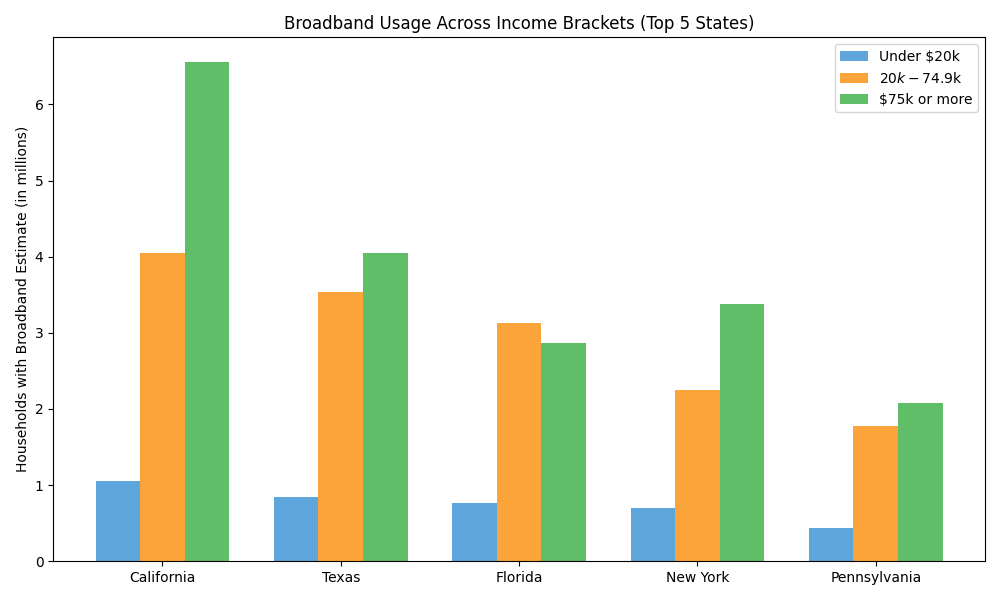
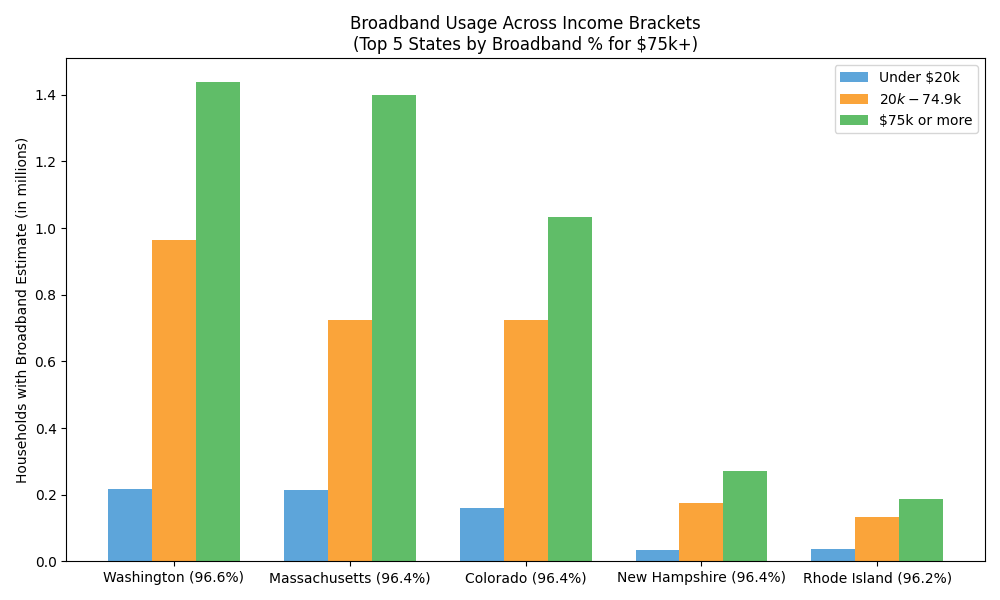
feat: Made first visual to be top 5 states for broadband % by 75k+ income

diff --git a/visuals_v2.py b/visuals_v2.py
@@ -1,0 +1,122 @@
+import pandas as pd
+import numpy as np
+import matplotlib.pyplot as plt
+
+# Read the dataset (Ensure your file is named exactly this in your folder)
+df = pd.read_excel('P2_Types of computers and internet subscriptions.xlsx')
+
+# Identify the state columns
+states = [col for col in df.columns if not col.startswith('Unnamed') and col not in ['Individual State', 'Puerto Rico', 'Totals and Percentages ']]
+
+data = []
+for state in states:
+    state_idx = df.columns.get_loc(state)
+    
+    # Helper function to grab the PRE-CALCULATED PERCENTAGE directly from the dataset
+    # In the Census dataset, the "Percent Estimate" column is exactly 2 columns to the right of the state name
+    def get_pct(row_idx):
+        val = df.iloc[row_idx, state_idx + 2]
+        if pd.isna(val): return 0
+        if isinstance(val, str):
+            val = val.replace('%', '').replace(',', '').replace('+', '').replace('-', '')
+            if val.strip() in ['', '(X)', 'N']: return 0
+            return float(val)
+        return float(val)
+
+    # Extract specific percentages directly from the dataset rows
+    desktop_laptop_pct = get_pct(5)
+    smartphone_pct = get_pct(7)
+    broadband_pct = get_pct(20)
+    satellite_pct = get_pct(21)
+    
+    # Broadband user percentages within each income bracket
+    income_under_20k_bb_pct = get_pct(26)
+    income_20k_to_75k_bb_pct = get_pct(30)
+    income_75k_bb_pct = get_pct(34)
+    
+    data.append({
+        'State': state,
+        'Desktop_Laptop_Pct': desktop_laptop_pct,
+        'Smartphone_Pct': smartphone_pct,
+        'Broadband_Pct': broadband_pct,
+        'Satellite_Pct': satellite_pct,
+        'Urbanization_Gap_Pct': broadband_pct - satellite_pct, # Difference in percentage points
+        'Income_Under20k_BB_Pct': income_under_20k_bb_pct,
+        'Income_20k-75k_BB_Pct': income_20k_to_75k_bb_pct,
+        'Income_75k+_BB_Pct': income_75k_bb_pct,
+    })
+
+# Convert to DataFrame
+df_metrics = pd.DataFrame(data)
+
+# Identify all columns except 'State' and convert only those to numeric
+numeric_cols = [col for col in df_metrics.columns if col != 'State']
+df_metrics[numeric_cols] = df_metrics[numeric_cols].apply(pd.to_numeric, errors='coerce')
+
+# Identify Top 5 States based on highest percentage gap between broadband and satellite
+top_5_states = df_metrics.sort_values('Urbanization_Gap_Pct', ascending=False).head(5)
+states_labels = top_5_states['State'].tolist()
+
+
+# --- VISUAL 1 ---
+# Set up the positions for the bars
+x = np.arange(len(states_labels))
+width = 0.25
+
+fig, ax = plt.subplots(figsize=(10, 6))
+
+# Plot each income bracket 
+ax.bar(x - width, top_5_states['Income_Under20k_BB_Pct'], width, label='Under $20k', color='#5da5da')
+ax.bar(x, top_5_states['Income_20k-75k_BB_Pct'], width, label='$20k - $74.9k', color='#faa43a')
+ax.bar(x + width, top_5_states['Income_75k+_BB_Pct'], width, label='$75k or more', color='#60bd68')
+
+# Formatting the chart
+ax.set_ylabel('Broadband Adoption Rate within Bracket (%)')
+ax.set_title('Broadband Adoption Rate Across Income Brackets (Top 5 States)')
+ax.set_xticks(x)
+ax.set_xticklabels(states_labels)
+ax.legend(loc='lower right')
+
+plt.tight_layout()
+plt.savefig('visual1_income_broadband.png')
+plt.show()
+
+
+# --- VISUAL 2 ---
+width = 0.35
+fig, ax = plt.subplots(figsize=(10, 6))
+
+# Plot Smartphone vs Desktop/Laptop
+ax.bar(x - width/2, top_5_states['Smartphone_Pct'], width, label='Smartphone', color='#4d4d4d')
+ax.bar(x + width/2, top_5_states['Desktop_Laptop_Pct'], width, label='Desktop/Laptop', color='#5da5da')
+
+# Formatting the chart
+ax.set_ylabel('Percentage of Total State Households (%)')
+ax.set_title('Device Ownership Comparison (Top 5 States)')
+ax.set_xticks(x)
+ax.set_xticklabels(states_labels)
+ax.legend(loc='lower right') 
+
+plt.tight_layout()
+plt.savefig('visual2_device_ownership.png')
+plt.show()
+
+
+# --- VISUAL 3 ---
+width = 0.35
+fig, ax = plt.subplots(figsize=(12, 6))
+
+# Plot Broadband vs Satellite
+ax.bar(x - width/2, top_5_states['Broadband_Pct'], width, label='Broadband', color='steelblue')
+ax.bar(x + width/2, top_5_states['Satellite_Pct'], width, label='Satellite', color='darkorange')
+
+# Formatting the chart
+ax.set_ylabel('Percentage of Total State Households (%)')
+ax.set_title('Top 5 States with Largest Gap between Broadband and Satellite')
+ax.set_xticks(x)
+ax.set_xticklabels(states_labels, rotation=45, ha='right')
+ax.legend()
+
+plt.tight_layout()
+plt.savefig('visual3_urbanization_gap_clustered.png')
+plt.show()

diff --git a/visual1.py b/visual1.py
@@ -1,0 +1,89 @@
+import pandas as pd
+import numpy as np
+import matplotlib.pyplot as plt
+
+# Read the excel dataset
+df = pd.read_excel('P2_Types of computers and internet subscriptions.xlsx')
+
+# Identify the state columns (skip 'Individual State', 'Unnamed' columns, and 'Puerto Rico')
+states = [col for col in df.columns if not col.startswith('Unnamed') and col not in ['Individual State', 'Puerto Rico']]
+
+data = []
+for state in states:
+    state_idx = df.columns.get_loc(state)
+    
+    # Helper function to clean and convert string numbers to floats
+    # ADDED: col_offset to retrieve percentage estimates next to the totals
+    def get_val(row_idx, col_offset=0):
+        val = df.iloc[row_idx, state_idx + col_offset]
+        if pd.isna(val): return 0
+        if isinstance(val, str):
+            val = val.replace(',', '').replace('+', '').replace('-', '').replace('%', '')
+            if val.strip() in ['', '(X)', 'N']: return 0
+            return float(val)
+        return float(val)
+
+    # Extract specific rows based on the labels in the dataset
+    desktop_laptop = get_val(5)
+    smartphone = get_val(7)
+    broadband = get_val(20)
+    satellite = get_val(21)
+    
+    income_under_20k_bb = get_val(26)
+    income_20k_to_75k_bb = get_val(30)
+    income_75k_bb = get_val(34)
+    income_75k_bb_pct = get_val(34, 2)  # Percentage estimate is 2 columns over from the total
+    
+    data.append({
+        'State': state,
+        'Desktop_Laptop': desktop_laptop,
+        'Smartphone': smartphone,
+        'Broadband': broadband,
+        'Satellite': satellite,
+        'Urbanization_Gap': broadband - satellite,
+        'Income_Under20k_BB': income_under_20k_bb,
+        'Income_20k-75k_BB': income_20k_to_75k_bb,
+        'Income_75k+_BB': income_75k_bb,
+        'Income_75k+_BB_Pct': income_75k_bb_pct,
+    })
+
+# Convert to DataFrame
+df_metrics = pd.DataFrame(data)
+
+# Identify all columns except 'State' and convert only those to numeric
+numeric_cols = [col for col in df_metrics.columns if col != 'State']
+df_metrics[numeric_cols] = df_metrics[numeric_cols].apply(pd.to_numeric, errors='coerce')
+
+
+# --- Graph 1 (MODIFIED LOGIC) ---
+# Pick Top 5 States by broadband usage PERCENTAGE for those who earn $75k or higher
+top_5_states_graph1 = df_metrics.sort_values('Income_75k+_BB_Pct', ascending=False).head(5)
+
+# Add the percentage to the state labels
+states_labels_1 = [
+    f"{state} ({pct}%)" 
+    for state, pct in zip(top_5_states_graph1['State'], top_5_states_graph1['Income_75k+_BB_Pct'])
+]
+
+# Set up the positions for the bars
+x1 = np.arange(len(states_labels_1))
+width = 0.25
+
+fig1, ax1 = plt.subplots(figsize=(10, 6))
+
+# Plot each income bracket using the new sorted dataframe
+ax1.bar(x1 - width, top_5_states_graph1['Income_Under20k_BB'] / 1_000_000, width, label='Under $20k', color='#5da5da')
+ax1.bar(x1, top_5_states_graph1['Income_20k-75k_BB'] / 1_000_000, width, label='$20k - $74.9k', color='#faa43a')
+ax1.bar(x1 + width, top_5_states_graph1['Income_75k+_BB'] / 1_000_000, width, label='$75k or more', color='#60bd68')
+
+# Formatting the chart
+ax1.set_ylabel('Households with Broadband Estimate (in millions)')
+ax1.set_title('Broadband Usage Across Income Brackets\n(Top 5 States by Broadband % for $75k+)')
+ax1.set_xticks(x1)
+ax1.set_xticklabels(states_labels_1)
+ax1.ticklabel_format(style='plain', axis='y') # Disable scientific notation on y-axis
+ax1.legend()
+
+plt.tight_layout()
+plt.savefig('visual1_income_broadband.png')
+plt.show()

diff --git a/visuals.py b/visuals.py
@@ -52,7 +52,7 @@ numeric_cols = [col for col in df_metrics.columns if col != 'State']
 df_metrics[numeric_cols] = df_metrics[numeric_cols].apply(pd.to_numeric, errors='coerce')
 
 # 3. Identify Top 5 States by Urbanization Gap/Size
-top_5_states = df_metrics.sort_values('Urbanization_Gap', ascending=False).head(5)
+top_5_states = df_metrics.sort_values('Urbanization_Gap', ascending=False).head(10)
 states_labels = top_5_states['State'].tolist()
 
 
